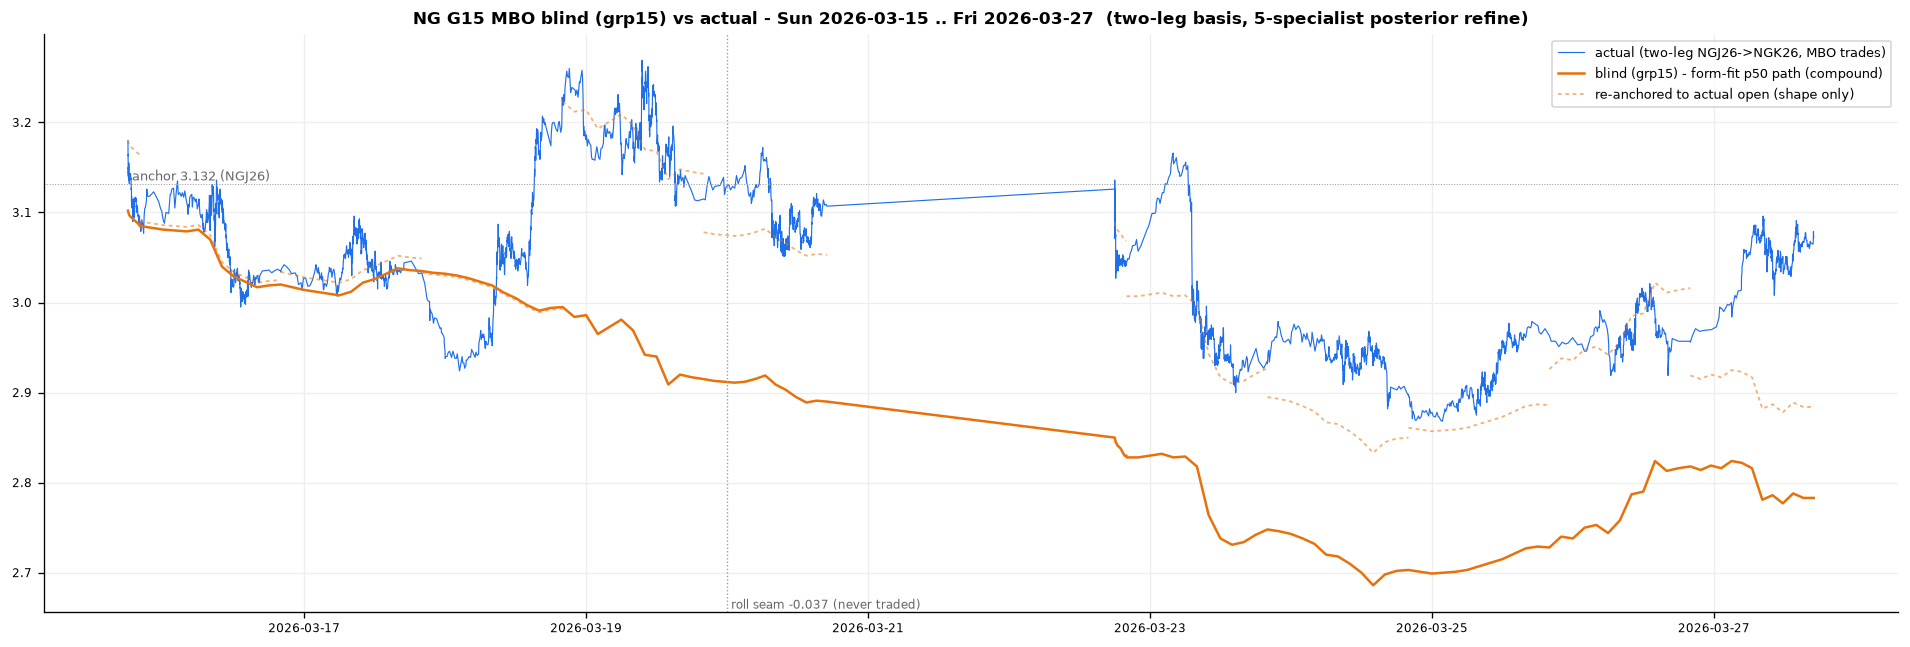
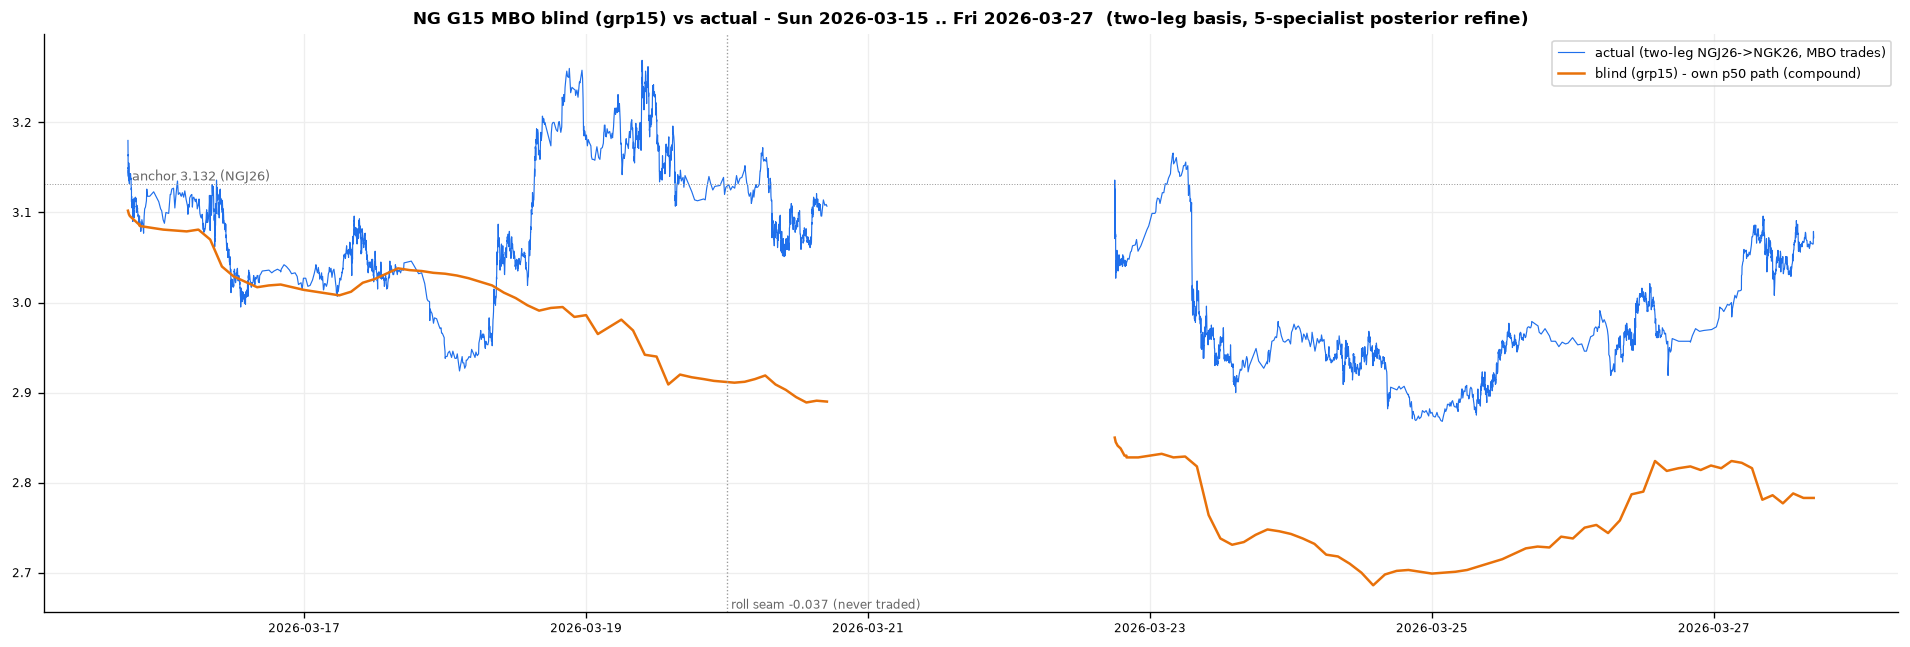
S104: coordinator-only guard + actual-curves-only render for the G15 MBO coordinator
Guard (enforce, do not assume): every emitted day-move must be verbatim the owner
specialist's own number - missing/non-numeric/wrong-owner posteriors are hard
failures, never a silent fallback to the blind. Negative-tested all three paths.
Render: drop the re-anchored dashed lines and the net-target scaling; plot only
the actual two-leg curve + the forecast's own p50 path, with closed-market gaps
broken (no synthetic bridges). Round-1 score reproduced byte-identical
(blind 9/12 err 526 / refined 12/12 err 72) before and after.

Claude-Session: https://claude.ai/code/session_012uyAgFPFWwB79KRe6uZVan

Changed region(s): [[0.8031, 0.0927, 0.9885, 0.1855], [0.5251, 0.6491, 0.5869, 0.6801], [0.4325, 0.6182, 0.4942, 0.6491]]

diff --git a/research/kalshi/coordinate_g15_mbo.py b/research/kalshi/coordinate_g15_mbo.py
@@ -1,8 +1,17 @@
-"""coordinate_g15_mbo.py - COORDINATOR for the G15 MBO 5-specialist refine (S103).
+"""coordinate_g15_mbo.py - COORDINATOR for the G15 MBO 5-specialist refine (S103; guard + render S104).
 Assembles the 5 specialist posteriors into grp15_mbo_refined.json (each day OWNED by its day-class
 specialist - SELECT, never average). Builds the two-leg actual curve from the MBO trades (NGJ26 0313-0319,
 NGK26 0320-0327, 0320 seam never-traded), renders blind + refined vs actual, scores blind vs refined.
-Does NOT edit the immutable blind (forecasts/grp15.json)."""
+Does NOT edit the immutable blind (forecasts/grp15.json).
+
+COORDINATOR-ONLY GUARD (S104, Greg): this file may SELECT the owner and ASSEMBLE its numbers - it must
+never forecast, average, scale, or substitute. guard_coordinator() enforces that every emitted day-move
+is verbatim the owner specialist's own number; a missing/non-numeric owner posterior is a hard failure,
+never a silent fallback to the blind.
+
+DATA NOTE: data/ng_mbo must hold the PER-CONTRACT legs (NGJ26 files for 0313-0319 from
+s3 nymex/ng_mbo_ngj26/, NGK26 for 0320-0327 = the year-pull files). The year-pull NG.n.0 files are the
+WRONG leg pre-roll (already NGK26 by mid-March)."""
 import os, json, glob
 import numpy as np, pandas as pd
 import matplotlib; matplotlib.use("Agg"); import matplotlib.pyplot as plt
@@ -63,6 +72,28 @@ def specialist_posteriors():
     return out
 
 
+SPECIALISTS = {"A", "B", "C", "D", "E"}
+
+
+def guard_coordinator(posts):
+    """Assert the coordinator only selects/assembles - it never emits a day-move no specialist owns.
+    Hard failure on any violation; no fallback."""
+    errs = []
+    for d in DAYS:
+        own = OWNER.get(d)
+        if own not in SPECIALISTS:
+            errs.append(f"{d}: owner {own!r} is not a specialist"); continue
+        p = posts.get(d)
+        if p is None:
+            errs.append(f"{d}: owner {own} emitted no posterior for this day (no fallback allowed)"); continue
+        if p.get("owner") != own:
+            errs.append(f"{d}: assembled posterior came from specialist {p.get('owner')!r}, owner is {own}")
+        if not isinstance(p.get("net"), (int, float)):
+            errs.append(f"{d}: owner {own} net is {p.get('net')!r} - non-numeric; the coordinator must not invent or substitute a number")
+    if errs:
+        raise SystemExit("COORDINATOR GUARD FAILED (would emit a number no specialist owns):\n  " + "\n  ".join(errs))
+
+
 def build_actual():
     """Per-day actual from MBO trades; continuous cum-$ from anchor, 0320 seam removed (never-traded)."""
     recs, cont_t, cont_p, cum_seam = [], [], [], 0.0
@@ -104,6 +135,7 @@ def guess_line(days_by_date, cont_anchor=ANCHOR):
 
 def main():
     posts = specialist_posteriors()
+    guard_coordinator(posts)                    # enforce, do not assume: SELECT/ASSEMBLE only
     actual, cont_t, cont_p, seam = build_actual()
     act_by = {r["date"]: r for r in actual}
     # blind day-moves from grp15.json
@@ -126,12 +158,16 @@ def main():
                "price_basis": "two-leg Kalshi underlying NGJ26(1008)->NGK26(996), 0320 seam never-traded",
                "method": "5 day-class specialists (A weekend/B Monday/C core/D Thu-EIA/E Fri-expiry) -> coordinator SELECTS owner per day, NO averaging; posterior update of the immutable blind",
                "seam_offset": round(seam, 4), "days": refined_days}
+    for rd in refined_days:                     # emission check: every number verbatim the owner's own
+        if rd["refined_net_usd"] != posts[rd["date"]]["net"]:
+            raise SystemExit(f"COORDINATOR GUARD FAILED at emission: {rd['date']} refined_net_usd "
+                             f"{rd['refined_net_usd']!r} != owner {OWNER[rd['date']]}'s {posts[rd['date']]['net']!r}")
     json.dump(refined, open(os.path.join(HERE, "forecasts", "grp15_mbo_refined.json"), "w"), indent=1)
 
     # DAY-MOVES (from prior close). blind = its own gap+net; refined = specialist day-move (already gap+net);
     # actual = its own gap+net. NEVER mix the actual gap into the refined (that double-counts on Sundays).
     def blind_dm(d): return (bl_by[d].get("overnight_gap_usd", 0) or 0) + (bl_by[d].get("guessed_net_usd", 0) or 0)
-    def refined_dm(d): return posts[d]["net"] if posts.get(d, {}).get("net") is not None else blind_dm(d)
+    def refined_dm(d): return posts[d]["net"]   # guarded: the owner's own number, never a fallback
     def actual_dm(d): return act_by[d]["net_usd"] + act_by[d]["gap_usd"]
 
     # SCORE blind vs refined (day-move vs actual)
@@ -151,8 +187,19 @@ def main():
                "refined_mean_abs_err": round(np.mean([abs(s["refined_err"]) for s in score]))},
               open(os.path.join(OUT, "g15_mbo_comparison.json"), "w"), indent=1)
 
-    # RENDER blind + refined - FORM-FITTING the intraday p50 path (not straight open->close segments).
-    adt = pd.to_datetime(np.asarray(cont_t), unit="s", utc=True).tz_convert(ET)
+    # RENDER blind + refined - the forecast's own intraday p50 path vs the actual.
+    def _gap_break(ts_arr, y_arr):
+        """insert NaN across >3h quiet spans so closed-market gaps are not drawn as straight bridges."""
+        ts_o, y_o = [], []
+        for i in range(len(ts_arr)):
+            ts_o.append(float(ts_arr[i])); y_o.append(float(y_arr[i]))
+            if i < len(ts_arr) - 1 and float(ts_arr[i + 1]) - float(ts_arr[i]) > 3 * 3600:
+                ts_o.append(float(ts_arr[i]) + 1.0); y_o.append(np.nan)
+        return np.asarray(ts_o), np.asarray(y_o, float)
+
+    a_ts, a_p = _gap_break(np.asarray(cont_t), np.asarray(cont_p))
+    adt = pd.to_datetime(a_ts, unit="s", utc=True).tz_convert(ET)
+    cont_p = a_p
     spans = {d: load_trades(d) for d in DAYS if d in act_by}
 
     def _span_et(d):
@@ -179,52 +226,44 @@ def main():
             return None
         return np.asarray(hh), np.asarray(cc)
 
-    def path_xy(d, curve, open_y, net_target=None):
-        """map a day's p50 path onto its actual trade-time span; optionally SCALE the shape so its
-        close lands exactly on net_target (magnitude from the scored day-move, shape from the forecast).
-        net_target=None draws the forecast's OWN magnitude (used for the re-anchored-to-actual line)."""
+    def path_xy(d, curve, open_y, net_fallback=0):
+        """map a day's p50 path onto its actual trade-time span, at the forecast's OWN magnitude -
+        never scaled/reconstructed (S104 render rule: plot the real forecast path, nothing synthesized).
+        A day with no emitted curve draws a straight line to the owner's own net (net_fallback)."""
         pts = _curve_pts(curve)
         et = _span_et(d)
         t0, t1 = et[0], et[-1]
         if pts is None:
-            return [t0, t1], [open_y, open_y + ((net_target or 0) / MULT)]
+            return [t0, t1], [open_y, open_y + (net_fallback / MULT)]
         hpos, cum = pts
         rng = hpos.max() - hpos.min()
         frac = (hpos - hpos.min()) / rng if rng > 1e-6 else np.linspace(0, 1, len(hpos))
-        factor = 1.0
-        if net_target is not None and abs(cum[-1]) > 1e-6:
-            factor = net_target / cum[-1]
         xs = [t0 + f * (t1 - t0) for f in frac]
-        ys = [open_y + (c * factor) / MULT for c in cum]
+        ys = [open_y + c / MULT for c in cum]
         return xs, ys
 
+    # S104 RENDER RULE (Greg): ONLY the actual curve + the forecast's own ACTUAL p50 path. No
+    # re-anchored dashed lines, no scaled/angular reconstruction - the real forecast path, nothing else.
     for tag, dmfn, curvefn, gapfn, netfn, color, label in [
         ("blind", blind_dm, lambda d: bl_by[d].get("guess_curve"),
          lambda d: bl_by[d].get("overnight_gap_usd", 0) or 0,
          lambda d: bl_by[d].get("guessed_net_usd", 0) or 0, "#e8710a", "blind (grp15)"),
-        ("refined", refined_dm, lambda d: posts.get(d, {}).get("curve") or bl_by[d].get("guess_curve"),
+        ("refined", refined_dm, lambda d: posts[d].get("curve"),
          lambda d: 0, lambda d: refined_dm(d), "#2ea043", "refined (5-specialist MBO)")]:
         fig, ax = plt.subplots(figsize=(16, 5.5))
         ax.plot(adt, cont_p, color="#1f6feb", lw=0.7, label="actual (two-leg NGJ26->NGK26, MBO trades)")
-        # (1) continuous FORM-FIT guess: compound from the running anchor cum, shape from the p50 path,
-        #     close scaled to the scored day-move.
         gx, gy = [], []
         run = 0.0
         for d in DAYS:
             if d not in act_by: continue
             gap = gapfn(d); net = netfn(d)
             open_y = ANCHOR + (run + gap) / MULT
-            xs, ys = path_xy(d, curvefn(d), open_y, net_target=net)
+            xs, ys = path_xy(d, curvefn(d), open_y, net_fallback=net)
+            if gx and (xs[0] - gx[-1]).total_seconds() > 3 * 3600:   # no bridge across closed market
+                gx.append(gx[-1] + pd.Timedelta(seconds=1)); gy.append(np.nan)
             gx.extend(xs); gy.extend(ys)
             run += dmfn(d)
-        ax.plot(gx, gy, color=color, lw=1.5, label=f"{label} - form-fit p50 path (compound)")
-        # (2) SAME guess RE-ANCHORED to the actual open each day (Greg: "if it started off on the price").
-        #     Direction/shape skill without the compounding level drift; own magnitude, unscaled.
-        for d in DAYS:
-            if d not in act_by: continue
-            xs, ys = path_xy(d, curvefn(d), act_by[d]["open"], net_target=None)
-            ax.plot(xs, ys, color=color, lw=1.1, ls=(0, (2, 2)), alpha=0.55,
-                    label="re-anchored to actual open (shape only)" if d == DAYS[0] else None)
+        ax.plot(gx, gy, color=color, lw=1.5, label=f"{label} - own p50 path (compound)")
         sd = pd.Timestamp(f"{SEAM[:4]}-{SEAM[4:6]}-{SEAM[6:]}", tz=ET)
         ax.axvline(sd, color="#999", lw=0.8, ls=":"); ax.text(sd, ax.get_ylim()[0], f" roll seam {seam:+.3f} (never traded)", fontsize=7, color="#666", va="bottom")
         ax.axhline(ANCHOR, color="#999", lw=0.6, ls=":"); ax.text(adt[0], ANCHOR, " anchor 3.132 (NGJ26)", fontsize=8, color="#666", va="bottom")
